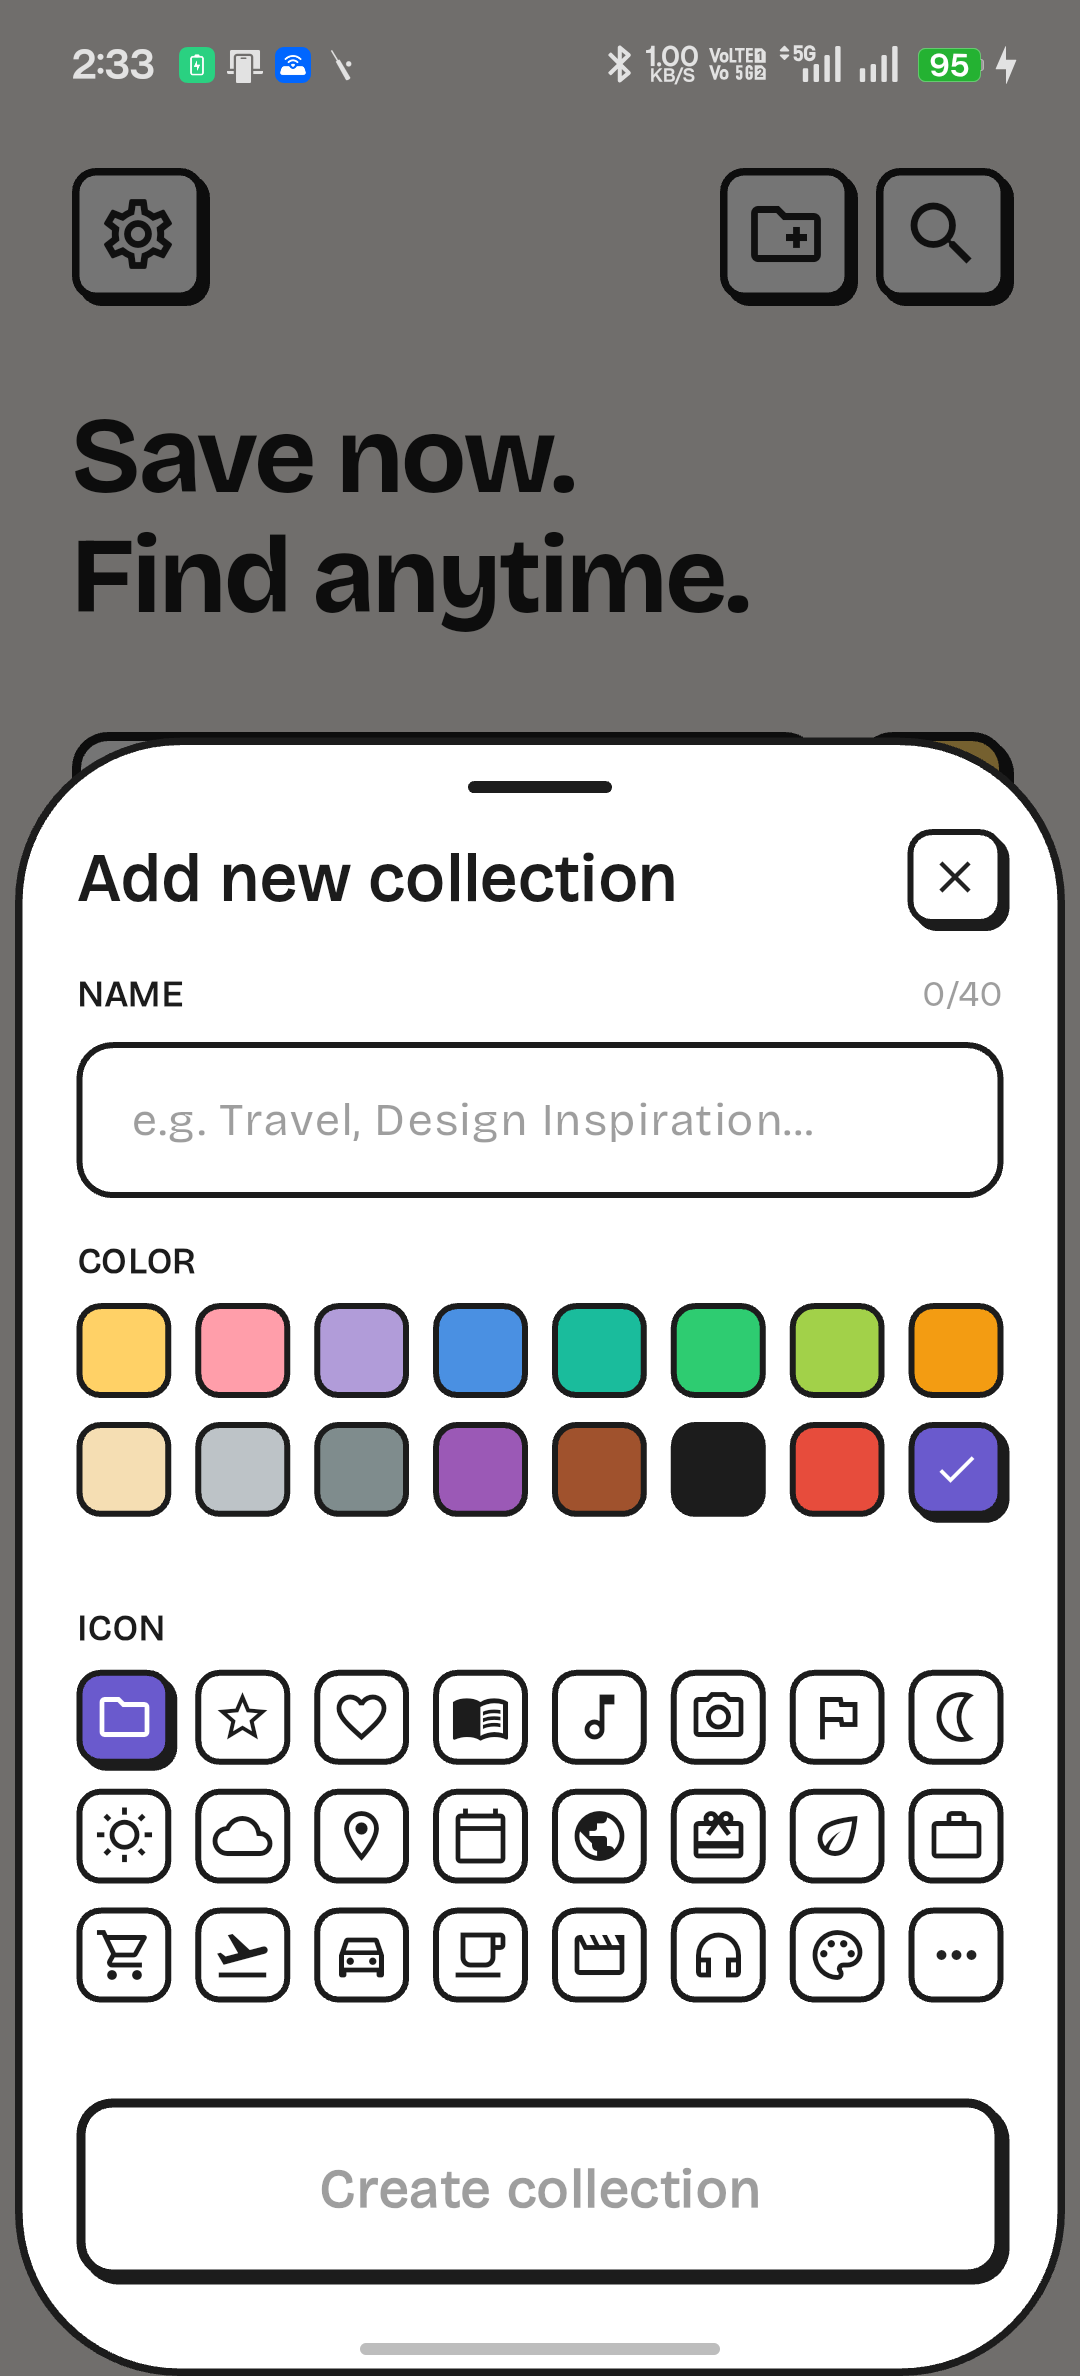
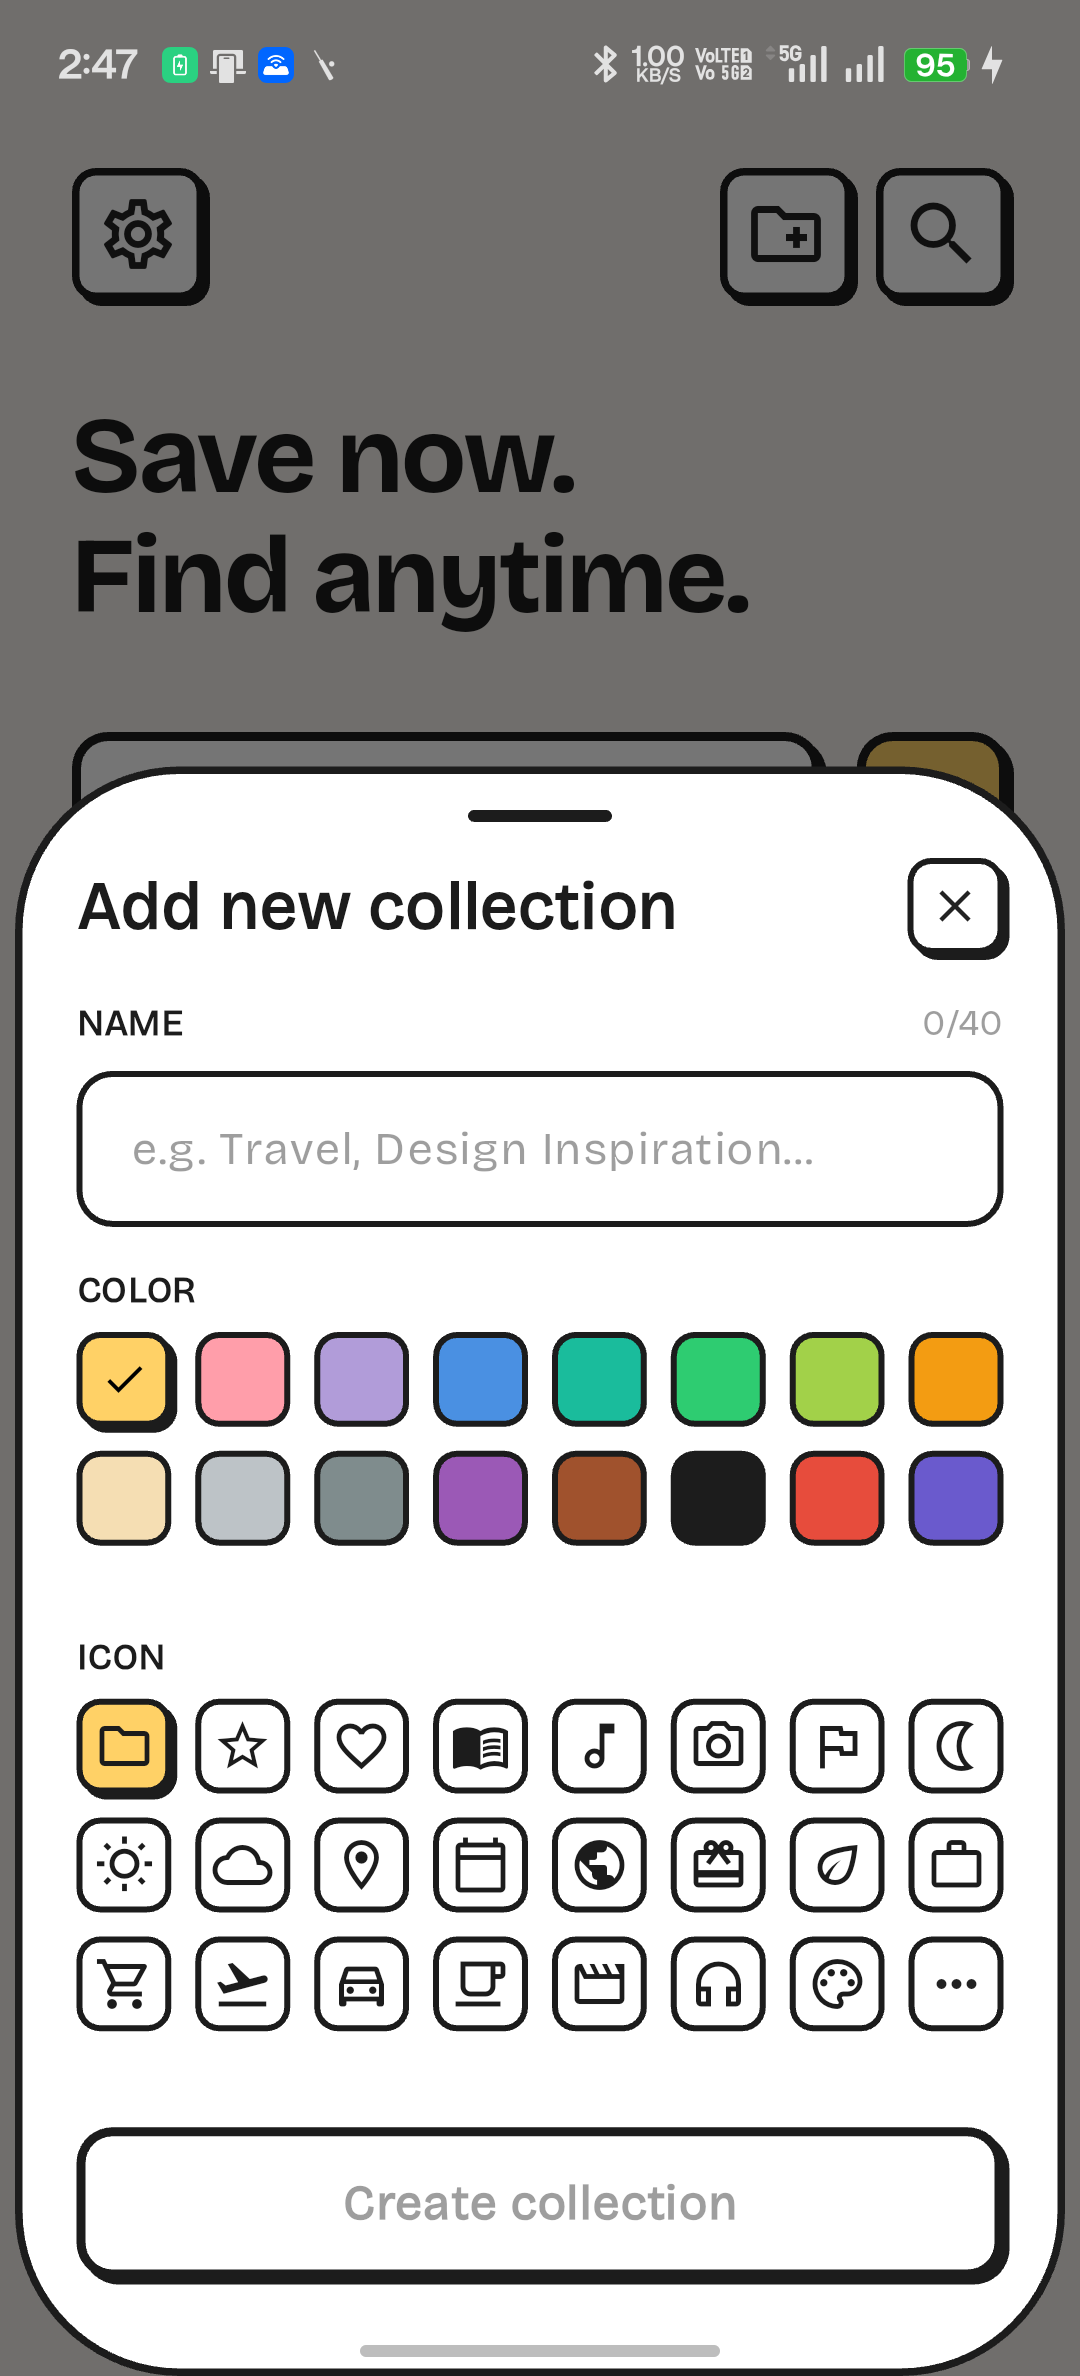
style(collection): set collection editor save button size to match URL bar height

diff --git a/lib/ui/widgets/collection_editor_modal.dart b/lib/ui/widgets/collection_editor_modal.dart
@@ -390,21 +390,26 @@ class _CollectionEditorModalState extends ConsumerState<CollectionEditorModal> {
                 Builder(
                   builder: (context) {
                     final isNameEmpty = _nameController.text.trim().isEmpty;
-                    return NeoButton(
-                      onPressed: !isNameEmpty ? _save : () {},
-                      color: !isNameEmpty ? const Color(0xFFFFD166) : AppTheme.cardColor,
-                      padding: const EdgeInsets.symmetric(vertical: 14),
-                      child: Center(
-                        child: Text(
-                          isEditing
-                              ? AppLocalizations.of(context)!.updateCollection
-                              : (widget.parentId != null
-                                  ? AppLocalizations.of(context)!.createSubCollectionButton
-                                  : AppLocalizations.of(context)!.createCollection),
-                          style: TextStyle(
-                            fontSize: 18,
-                            fontWeight: FontWeight.bold,
-                            color: !isNameEmpty ? AppTheme.border : Colors.black38,
+                    return SizedBox(
+                      height: 50.4,
+                      width: double.infinity,
+                      child: NeoButton(
+                        onPressed: !isNameEmpty ? _save : () {},
+                        color: !isNameEmpty ? const Color(0xFFFFD166) : AppTheme.cardColor,
+                        padding: EdgeInsets.zero,
+                        borderRadius: AppDimensions.radiusMd,
+                        child: Center(
+                          child: Text(
+                            isEditing
+                                ? AppLocalizations.of(context)!.updateCollection
+                                : (widget.parentId != null
+                                    ? AppLocalizations.of(context)!.createSubCollectionButton
+                                    : AppLocalizations.of(context)!.createCollection),
+                            style: TextStyle(
+                              fontSize: 16,
+                              fontWeight: FontWeight.bold,
+                              color: !isNameEmpty ? AppTheme.border : Colors.black38,
+                            ),
                           ),
                         ),
                       ),

diff --git a/test/collection_editor_modal_test.dart b/test/collection_editor_modal_test.dart
@@ -10,6 +10,7 @@ import 'package:save_later/providers/providers.dart';
 import 'package:save_later/repositories/isar_repository.dart';
 import 'package:save_later/ui/screens/icon_picker_screen.dart';
 import 'package:save_later/ui/widgets/collection_editor_modal.dart';
+import 'package:save_later/ui/widgets/neo_button.dart';
 
 class MockModalRepository implements IsarRepository {
   final List<BookmarkCollection> collections = [];
@@ -215,6 +216,25 @@ void main() {
     expect(find.byIcon(Icons.sports_esports_outlined), findsOneWidget);
     // Since custom icon is selected, more_horiz is replaced by the custom icon
     expect(find.byIcon(Icons.more_horiz), findsNothing);
+  });
+
+  testWidgets('CollectionEditorModal save button has height 50.4 matching URL bar', (tester) async {
+    await tester.pumpWidget(
+      buildTestWidget(
+        child: const Scaffold(
+          body: CollectionEditorModal(),
+        ),
+      ),
+    );
+    await tester.pumpAndSettle();
+
+    final buttonFinder = find.widgetWithText(NeoButton, 'Create collection');
+    expect(buttonFinder, findsOneWidget);
+
+    final sizedBox = tester.widget<SizedBox>(
+      find.ancestor(of: buttonFinder, matching: find.byType(SizedBox)).first,
+    );
+    expect(sizedBox.height, 50.4);
   });
 }
 
